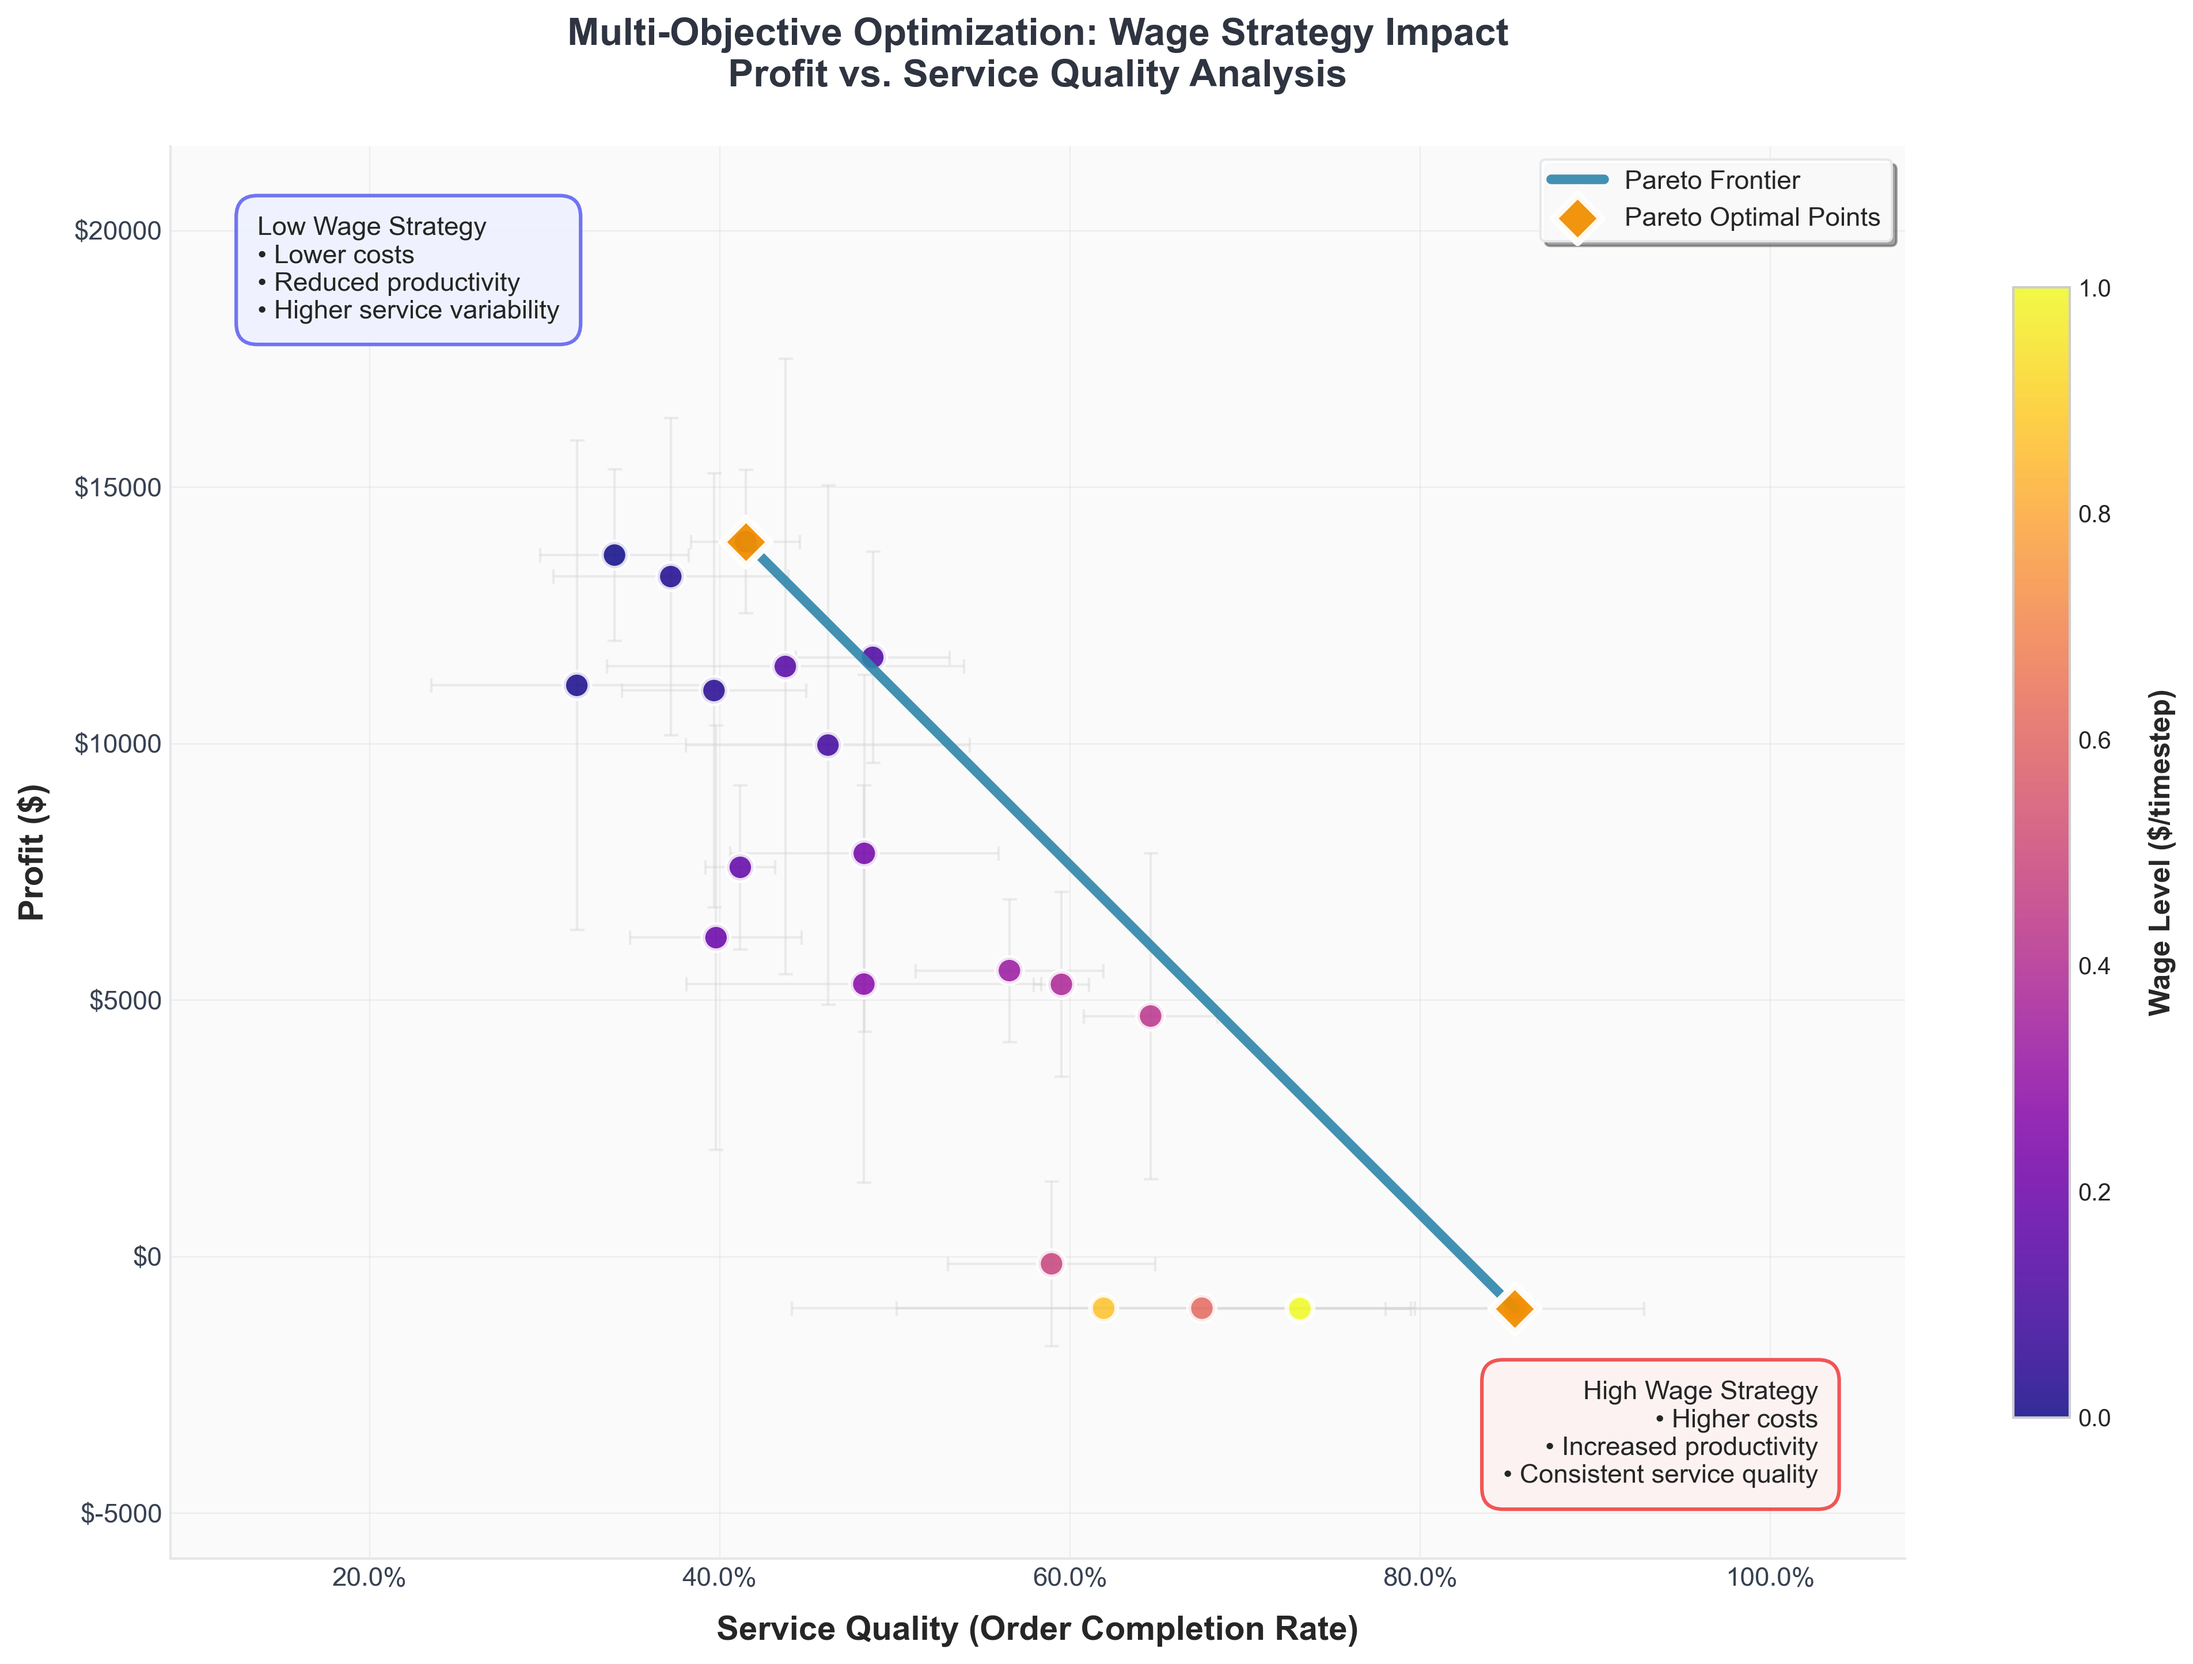
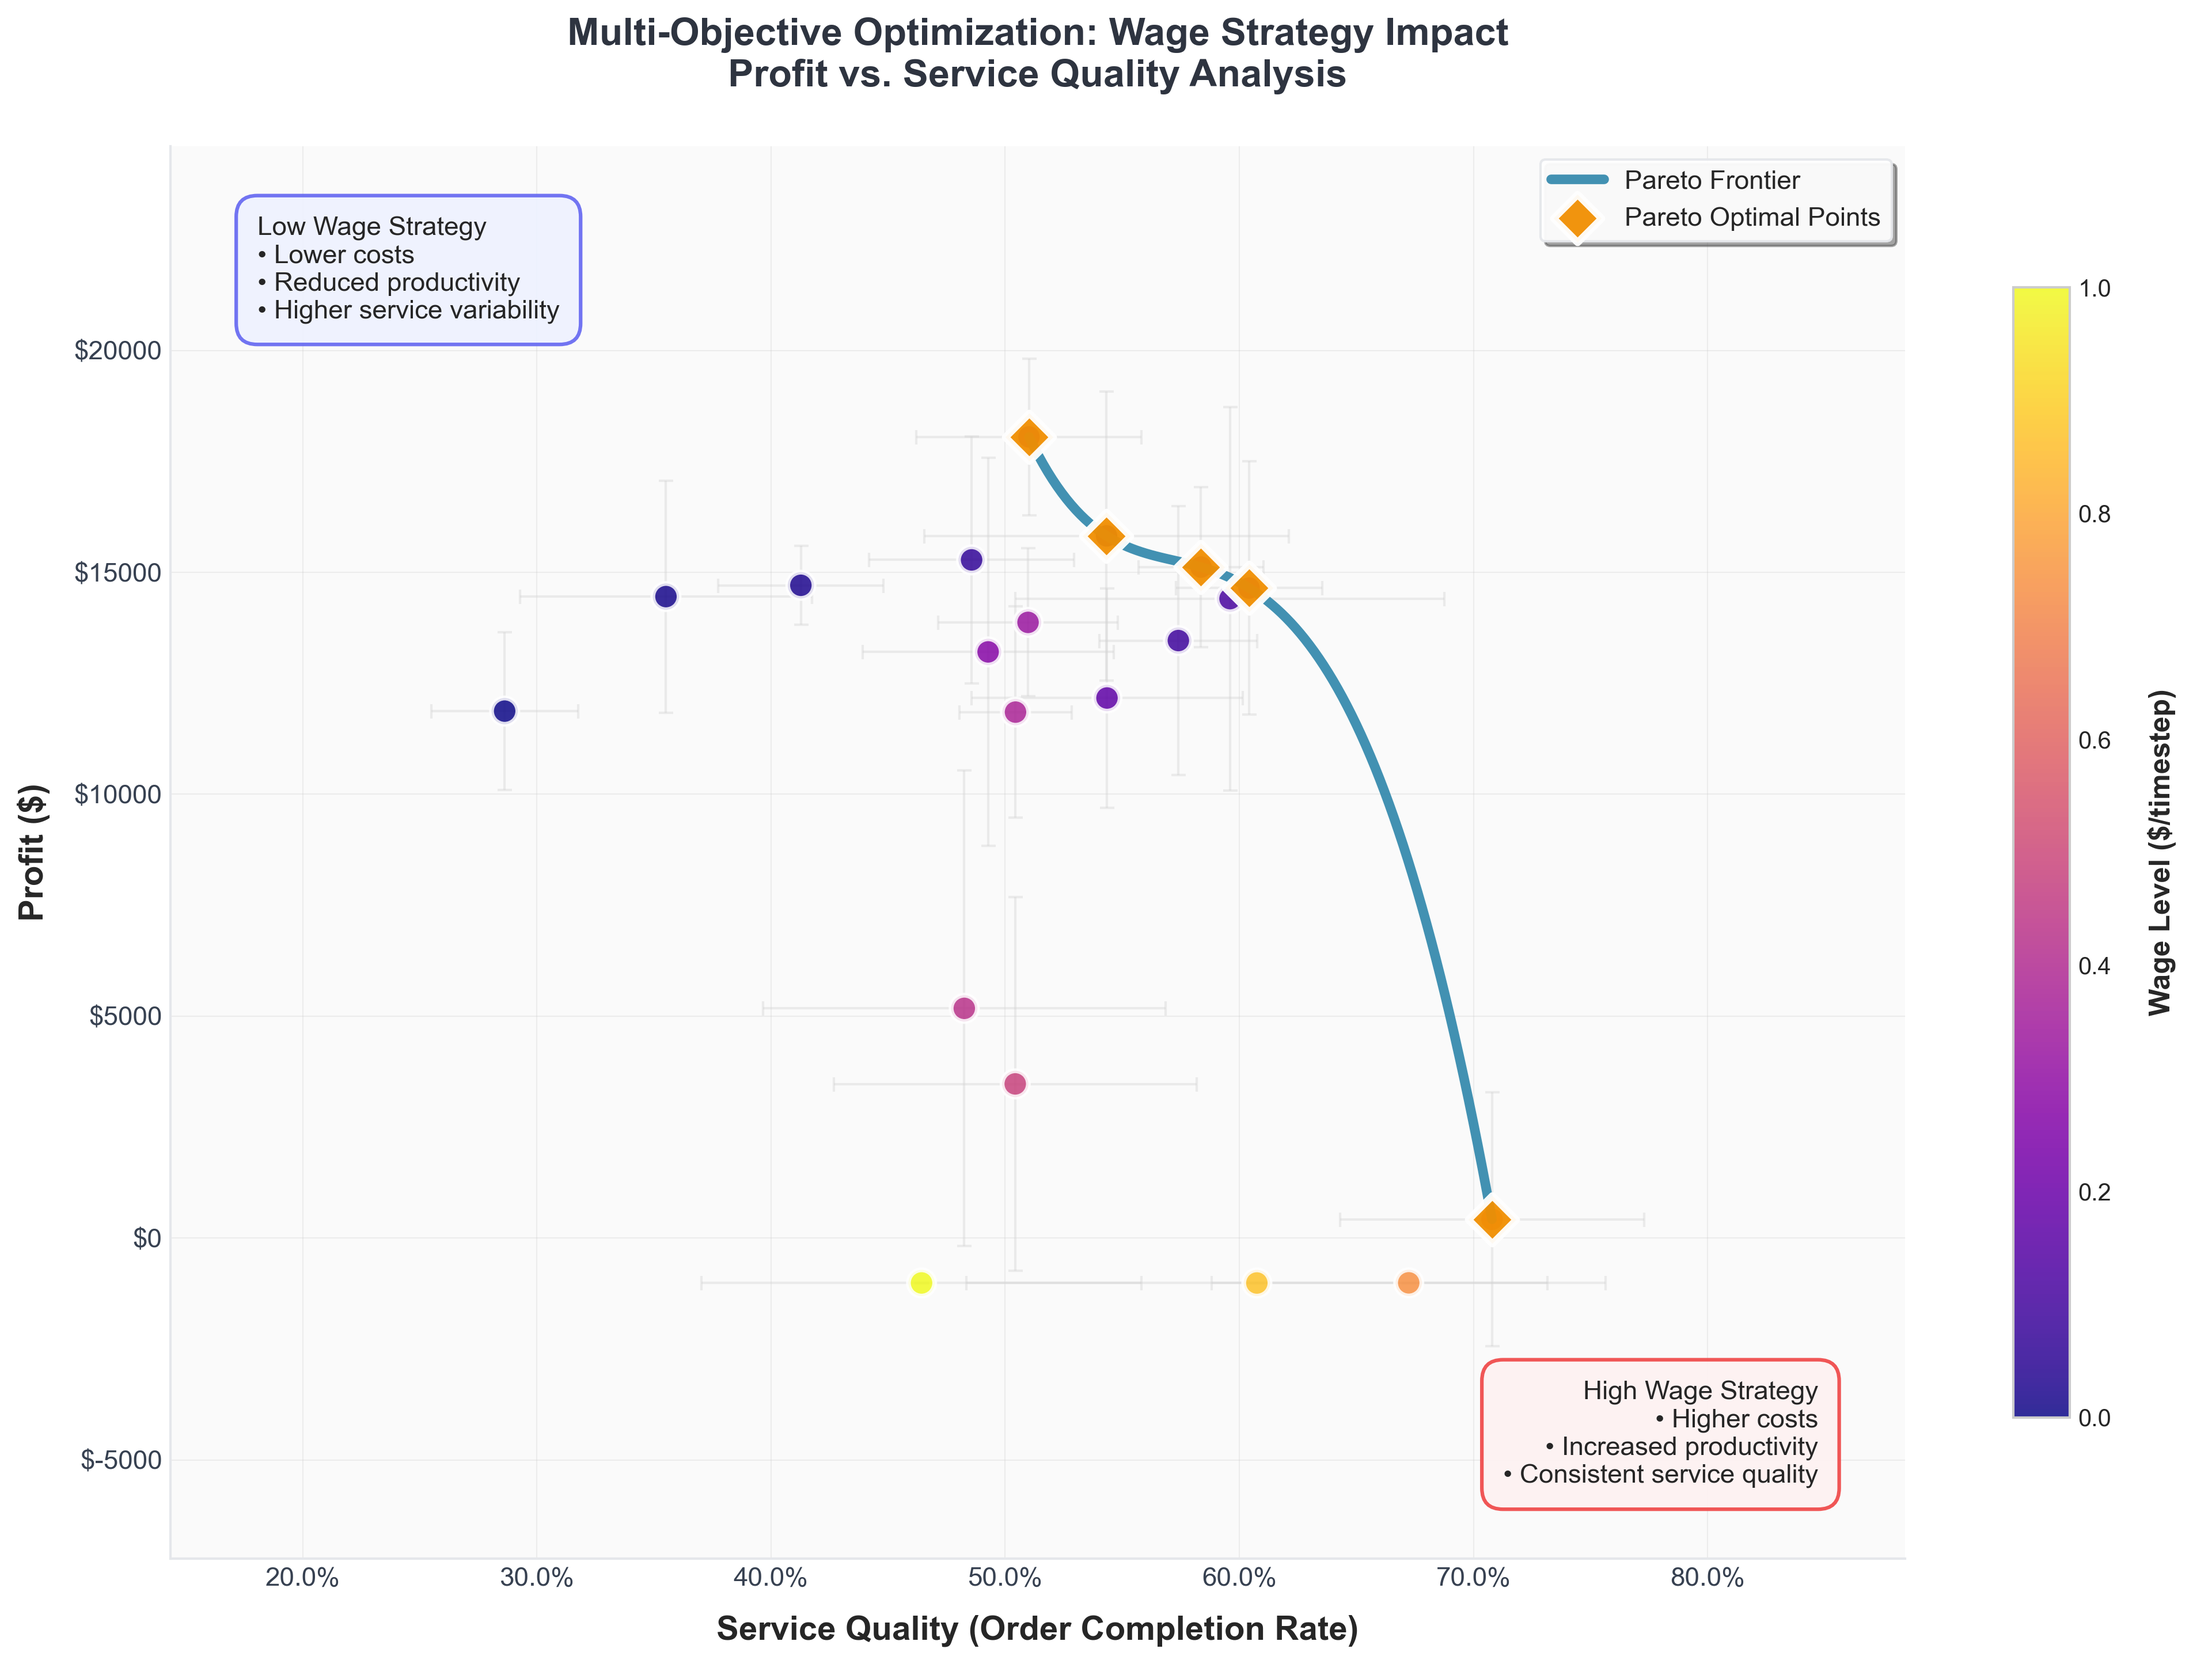
pareto curve corrected

diff --git a/Act 3/warehouse_rl/multi_objective_demo.py b/Act 3/warehouse_rl/multi_objective_demo.py
@@ -187,48 +187,19 @@ def plot_pareto_frontier(results: Dict):
                    color='lightgray', alpha=0.4, capsize=3, capthick=1, 
                    elinewidth=1, zorder=1)
     
-    # Calculate Pareto frontier with strict algorithm
-    def is_dominated(point, other_points):
-        """Check if a point is strictly dominated by any other point"""
-        for other in other_points:
-            # Strictly dominated means other is better in both objectives
-            if (other['service'] > point['service'] and other['profit'] > point['profit']):
-                return True
-            # Or significantly better in one while equal/slightly better in other
-            if (other['service'] >= point['service'] and other['profit'] > point['profit'] and 
-                other['service'] - point['service'] >= 0.02):  # 2% service threshold
-                return True
-            if (other['profit'] >= point['profit'] and other['service'] > point['service'] and 
-                other['profit'] - point['profit'] >= 200):  # $200 profit threshold
-                return True
-        return False
-    
-    # Find true Pareto frontier points (should be 2-4 points max)
+    # Calculate and draw Pareto frontier
     pareto_points = []
-    for i, config in enumerate(configurations):
-        other_configs = configurations[:i] + configurations[i+1:]
-        if not is_dominated(config, other_configs):
-            pareto_points.append(config)
+    configurations_sorted = sorted(configurations, key=lambda x: x['service'])
     
-    # Additional filtering: only keep extreme points and key trade-offs
-    if len(pareto_points) > 4:
-        # Keep profit maximizer, service maximizer, and best balanced points
-        profit_max = max(pareto_points, key=lambda x: x['profit'])
-        service_max = max(pareto_points, key=lambda x: x['service'])
-        
-        # Find balanced point (best profit-service product)
-        balanced = max(pareto_points, key=lambda x: x['profit'] * x['service'])
-        
-        # Keep only these key points
-        key_points = [profit_max, service_max, balanced]
-        # Remove duplicates
-        seen = set()
-        pareto_points = []
-        for point in key_points:
-            point_id = (round(point['profit'], 0), round(point['service'], 3))
-            if point_id not in seen:
-                pareto_points.append(point)
-                seen.add(point_id)
+    for config in configurations_sorted:
+        is_pareto = True
+        for other in configurations:
+            if (other['service'] >= config['service'] and other['profit'] >= config['profit'] and
+                (other['service'] > config['service'] or other['profit'] > config['profit'])):
+                is_pareto = False
+                break
+        if is_pareto:
+            pareto_points.append(config)
     
     # Sort Pareto points by service quality for smooth curve
     pareto_points.sort(key=lambda x: x['service'])
